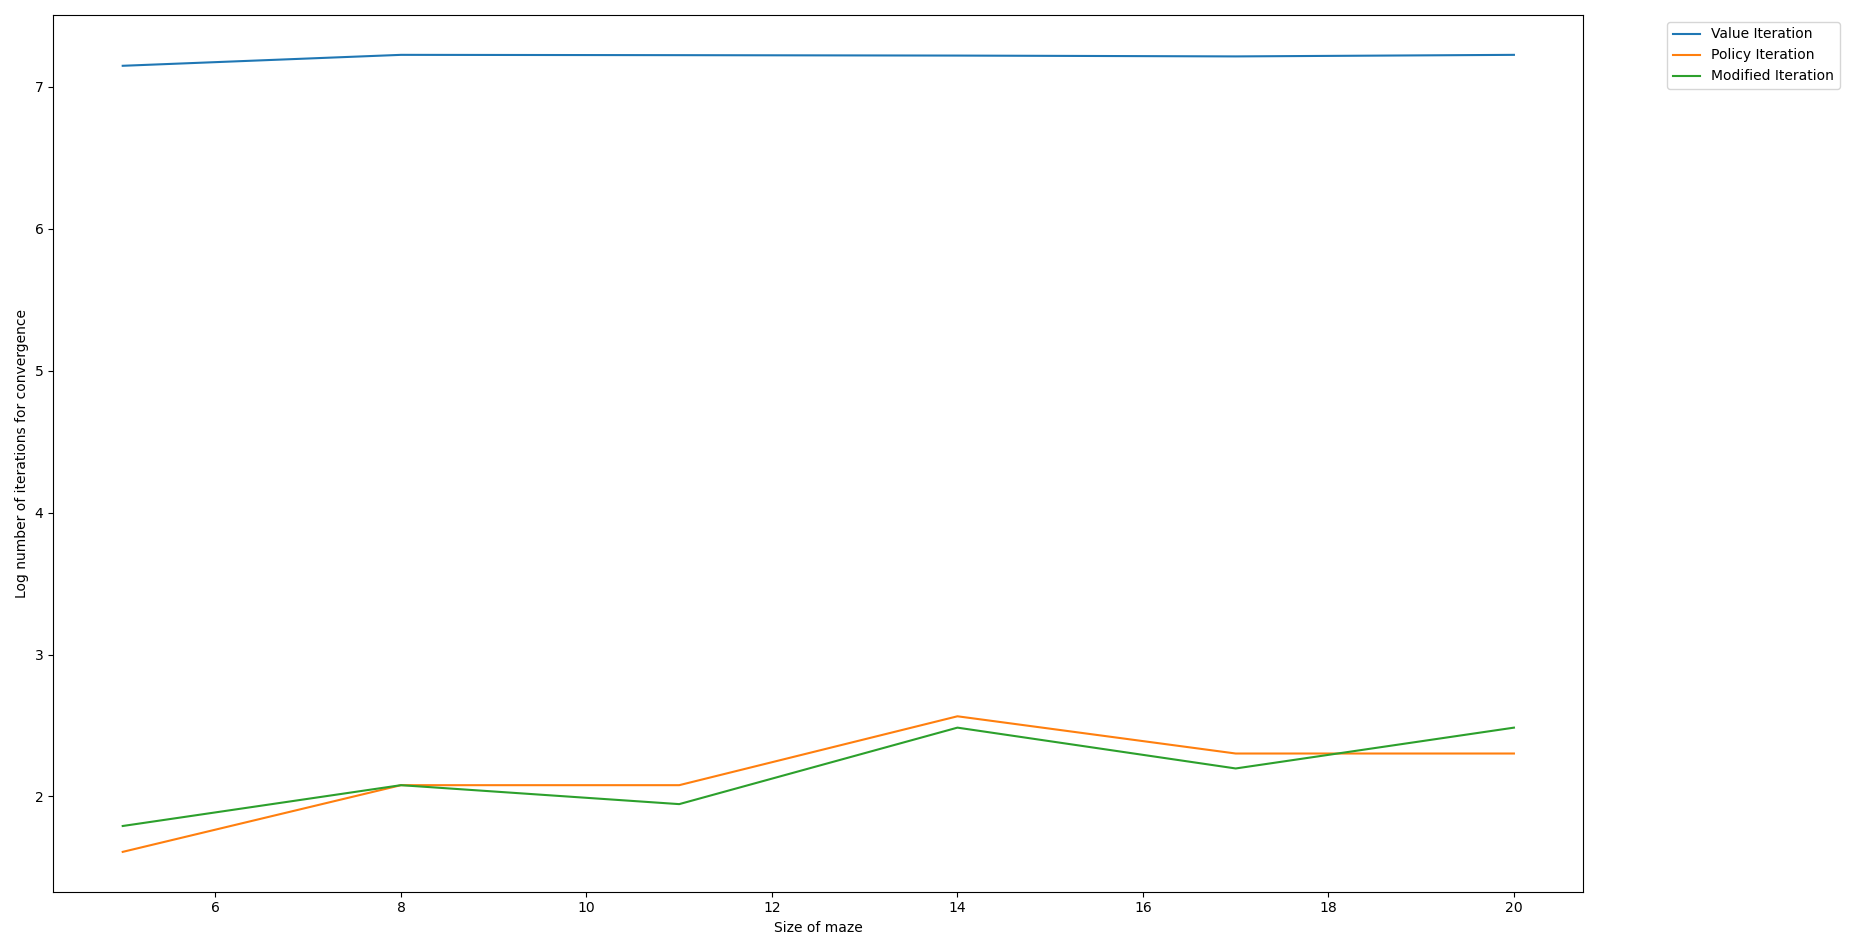
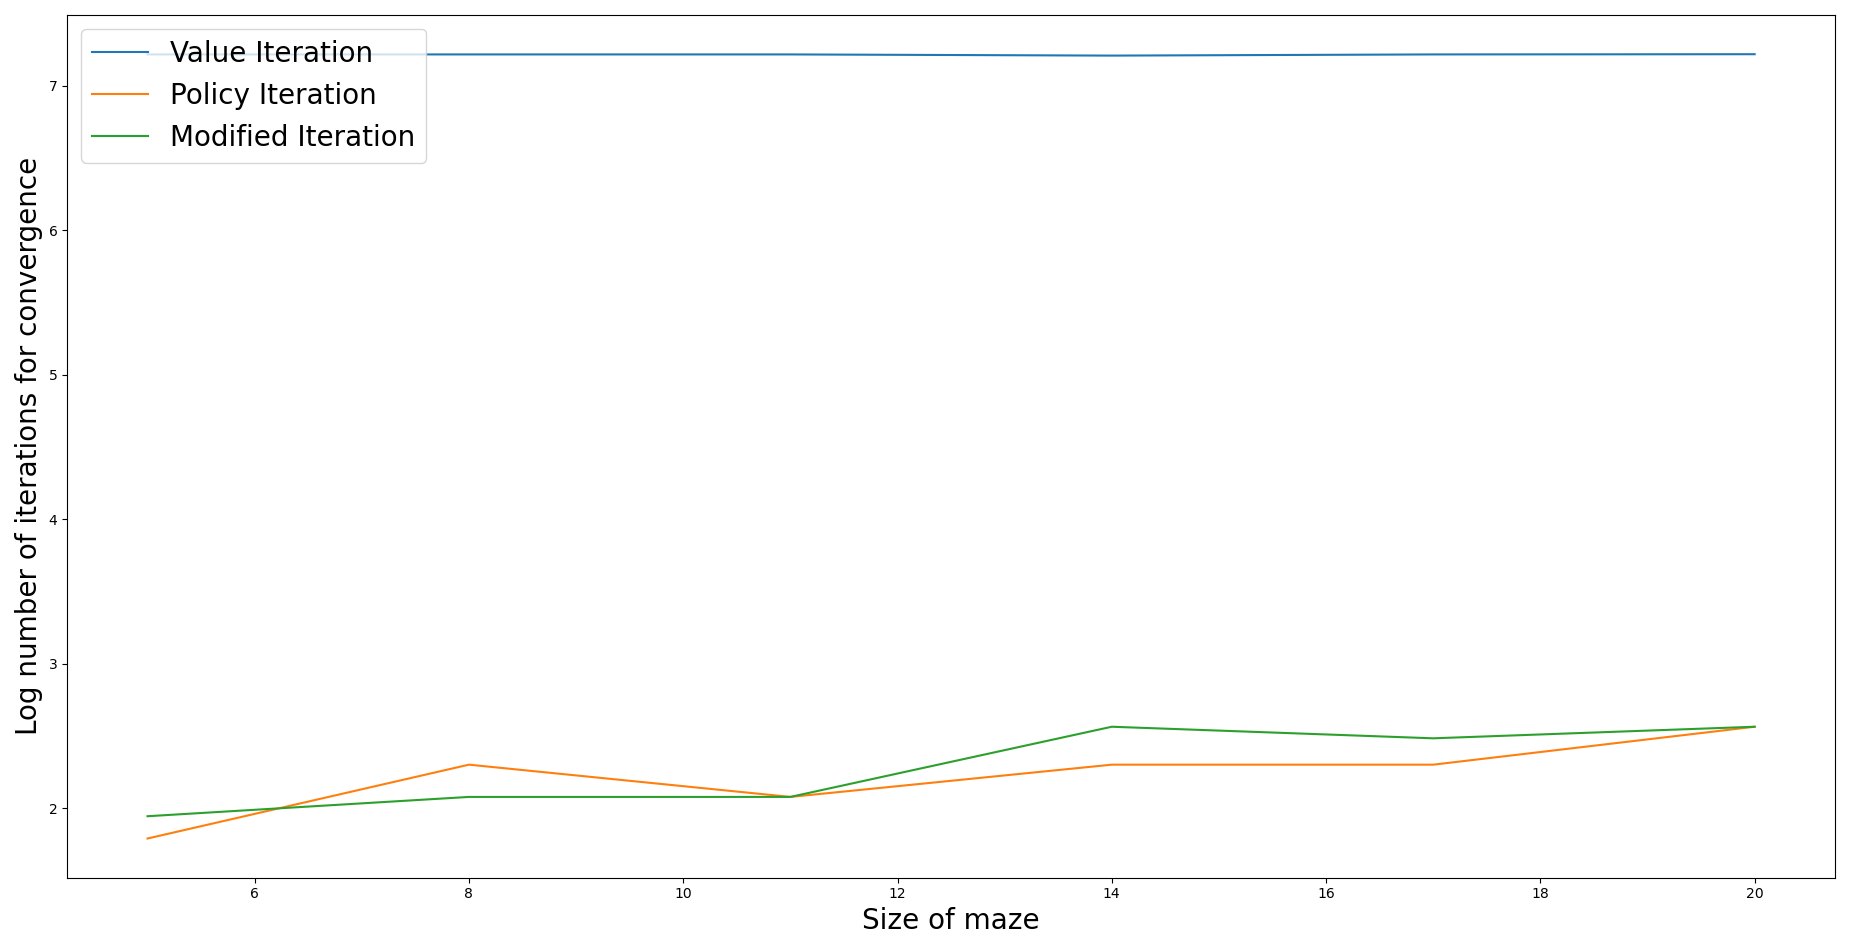
changed termination critera for modified policy Iteration to fixed # of iterations instead of error

diff --git a/classes/Plotters.py b/classes/Plotters.py
@@ -23,9 +23,9 @@ class UtilityPlotter:
         fig.set_size_inches(18.5, 9.5)
         for label, data in self.data.items():
             ax.plot(data, label=label)
-        plt.xlabel('Iterations')
-        plt.ylabel('Utility Estimates')
-        ax.legend(bbox_to_anchor=(1.05, 1), ncol=2, loc='upper left')
+        plt.xlabel('Iterations', fontsize=20)
+        plt.ylabel('Utility Estimates', fontsize=20)
+        ax.legend(ncol=2, loc='lower right', fontsize=20)
         plt.tight_layout()
         plt.show()
 
@@ -150,9 +150,9 @@ class ComplexityPlotter:
         fig.set_size_inches(18.5, 9.5)
         for label, data in self.times.items():
             ax.plot(self.sizes[label], data, label=label)
-        plt.xlabel('Size of maze')
-        plt.ylabel('Time taken for convergence (s)')
-        ax.legend(bbox_to_anchor=(1.05, 1), loc='upper left')
+        plt.xlabel('Size of maze', fontsize=20)
+        plt.ylabel('Time taken for convergence (s)', fontsize=20)
+        ax.legend(loc='upper left', fontsize=20)
         plt.tight_layout()
         plt.show()
     
@@ -161,8 +161,8 @@ class ComplexityPlotter:
         fig.set_size_inches(18.5, 9.5)
         for label, data in self.num_iterations.items():
             ax.plot(self.sizes[label], data, label=label)
-        plt.xlabel('Size of maze')
-        plt.ylabel('Log number of iterations for convergence')
-        ax.legend(bbox_to_anchor=(1.05, 1), loc='upper left')
+        plt.xlabel('Size of maze', fontsize=20)
+        plt.ylabel('Log number of iterations for convergence', fontsize=20)
+        ax.legend(loc='upper left', fontsize=20)
         plt.tight_layout()
         plt.show()

diff --git a/classes/MDP.py b/classes/MDP.py
@@ -284,16 +284,14 @@ class PolicyIteration(MDP):
         return iteration
 
 class ModifiedPolicyIteration(MDP):
-    def _policy_evaluation(self, error:float):
+    def _policy_evaluation(self, k:int):
         """
         Evaluates the policy approximately to give a reasonably good approximation of the utilities
 
         Args:
-            error (float): The threshold to terminate the approximation
+            k (int): The number of iterations of Bellman update
         """
-        theta = error * (1 - self.discount) / self.discount
-
-        while True:
+        for _ in range(k):
             delta = 0.0
             
             # Iterate through each state in the maze
@@ -312,22 +310,18 @@ class ModifiedPolicyIteration(MDP):
             
             # Updates the value of each state synchronously
             self._update_prev_values()
-        
-            # If delta < theta, the policy has converged and we terminate the evaluation
-            if delta < theta:
-                break
     
-    def solve(self, error:float):
+    def solve(self, k:int):
         """
         Finds the optimum policy and estimated utilities of the MDP
 
         Args:
-            error (float): The threshold to terminate the approximate policy evaluation
+            error (float): The number of iterations of Bellman update for policy evaluation
         """
         iteration = 0
         while True:
             iteration += 1
-            self._policy_evaluation(error)
+            self._policy_evaluation(k)
             unchanged = True
             for i in range(self.height):
                 for j in range(self.width):

diff --git a/main.py b/main.py
@@ -24,7 +24,7 @@ def part_1():
     maze_plotter.draw_action(pi_solver.layout, pi_solver.policy, title="Policy Iteration", font_size=20)
 
     mpi_solver = ModifiedPolicyIteration(q1_maze, discount=0.99)
-    mpi_solver.solve(error=50)
+    mpi_solver.solve(k=50)
     mpi_solver.plot_utilities()
     maze_plotter.draw_estimated_utilities(mpi_solver.layout, mpi_solver.utilities, title="Modified Policy Iteration", font_size=9)
     maze_plotter.draw_action(mpi_solver.layout, mpi_solver.policy, title="Modified Policy Iteration", font_size=20)
@@ -50,7 +50,7 @@ def part_2():
         plotter.add_data("Policy Iteration", s, solver.solve)
 
         solver = ModifiedPolicyIteration(maze, discount=0.99)
-        plotter.add_data("Modified Iteration", s, solver.solve, error=50)
+        plotter.add_data("Modified Iteration", s, solver.solve, k=50)
 
         # Scale cell size down to ensure overall size is the same
         cell_size = cell_size / (s + 3) * s
